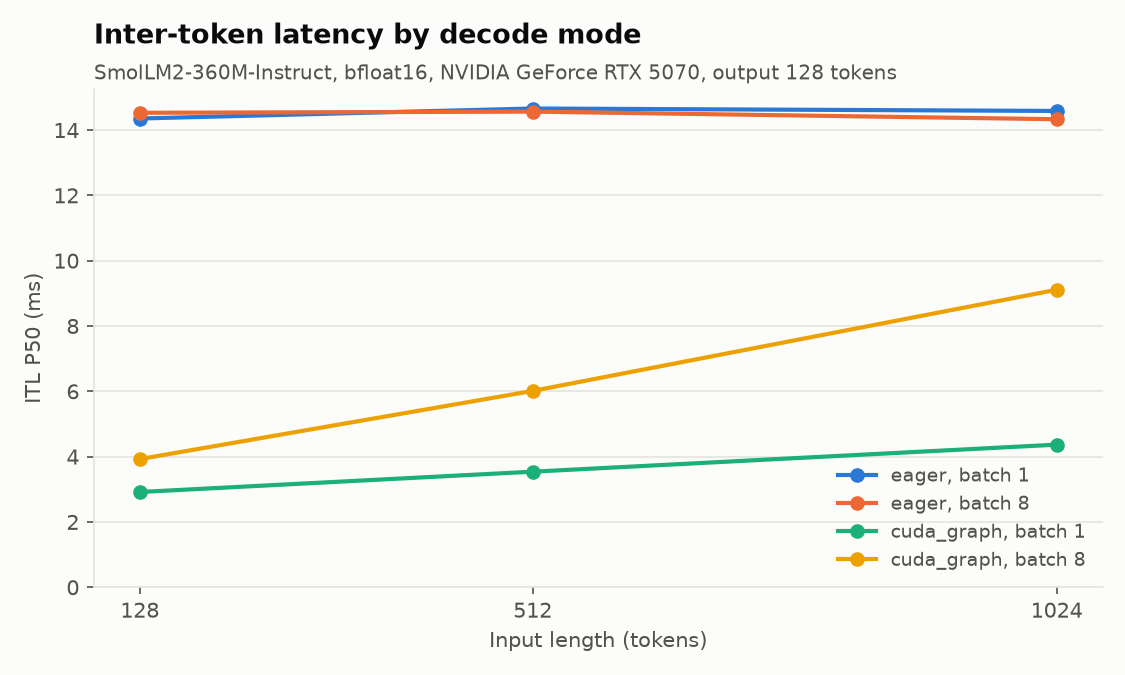
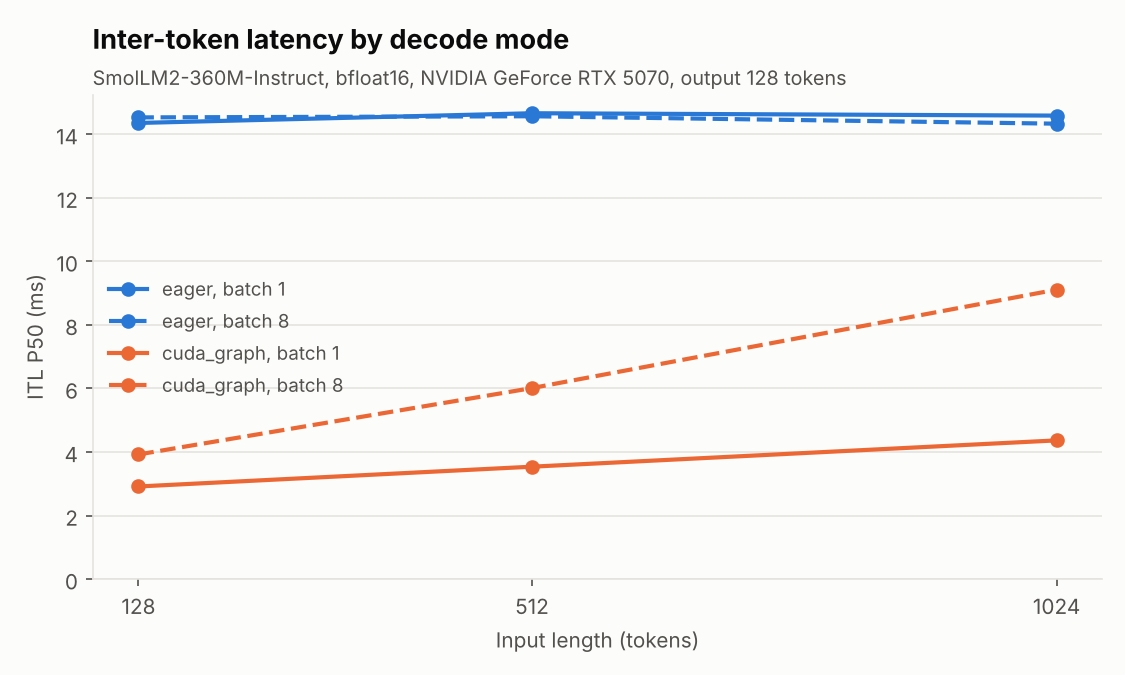
README: CUDA graph results; one color per decode mode in mode plots
Claude-Session: https://claude.ai/code/session_01GCgimVQNygShu8MfHsWbpB

diff --git a/src/miniinferbench/plots.py b/src/miniinferbench/plots.py
@@ -236,9 +236,12 @@ def plot_modes(
     model = head["config"]["model_name"].split("/")[-1]
     sub = f"{model}, {head['config']['dtype']}, {gpu}, output {output_len} tokens"
     written = []
+    # One color per mode in both figures; batch size is told apart by line style.
+    colors = dict(zip(points, SERIES, strict=False))
 
     fig, ax = plt.subplots(figsize=(7.5, 4.5))
-    for color, (label, pts) in zip(SERIES, points.items(), strict=False):
+    for label, pts in points.items():
+        color = colors[label]
         rows = sorted(
             (
                 p
@@ -265,12 +268,13 @@ def plot_modes(
         "Decode tokens/s",
         sub + f", input {input_len}",
     )
+    ax.set_ylim(bottom=0)
     ax.legend(frameon=False, labelcolor=INK_SECONDARY, fontsize=9)
     written.append(_save(fig, out_dir, "modes_throughput_vs_batch.png"))
 
     fig, ax = plt.subplots(figsize=(7.5, 4.5))
-    lines = [(label, bs) for label in points for bs in (1, 8)]
-    for color, (label, bs) in zip(SERIES, lines, strict=False):
+    styles = {1: "-", 8: "--"}
+    for label, bs in [(label, bs) for label in points for bs in styles]:
         rows = sorted(
             (
                 p
@@ -283,7 +287,8 @@ def plot_modes(
         ax.plot(
             xs,
             [p["summary"]["itl_ms_p50"] for p in rows],
-            color=color,
+            color=colors[label],
+            linestyle=styles[bs],
             linewidth=2,
             marker="o",
             markersize=6,

diff --git a/README.md b/README.md
@@ -41,8 +41,8 @@ All 36 points match `generate()` exactly; 20 are `ok`, 16 `unstable`
 - Prefill of 128 tokens at batch 1 (TTFT 14.7 ms) costs about the same as one
   decode step: both are dominated by the same per-layer launch sequence.
 
-The obvious next experiment is to cut launches with a static KV cache plus
-CUDA Graphs or `torch.compile(mode="reduce-overhead")`. It is not done yet.
+The direct test of this finding is to remove the launches; see
+[Testing the finding with CUDA Graphs](#testing-the-finding-with-cuda-graphs).
 
 ![Prefill vs one decode step](docs/figures/prefill_vs_decode.png)
 
@@ -50,6 +50,48 @@ More figures: [latency vs batch](docs/figures/latency_vs_batch.png),
 [prefill vs input length](docs/figures/prefill_vs_input.png),
 [ITL distribution](docs/figures/itl_distribution.png),
 [memory: measured vs estimated](docs/figures/memory.png).
+
+## Testing the finding with CUDA Graphs
+
+If decode is launch-bound, replaying each decode step as one CUDA graph
+instead of ~1,300 separate launches should cut ITL to roughly the GPU's busy
+time. `decode_mode: "cuda_graph"` does that: a static KV cache plus
+`torch.compile(mode="reduce-overhead")` for decode steps; prefill stays eager.
+Both modes were swept at the same commit, output 128
+([`results-published/5070-360m-modes.jsonl`](results-published/5070-360m-modes.jsonl)).
+
+| Batch | Input | ITL P50 eager | ITL P50 CUDA graph | Decode tok/s eager | Decode tok/s CUDA graph |
+| --- | --- | --- | --- | --- | --- |
+| 1 | 128 | 14.35 ms | 2.92 ms | 69.6 | 341.0 |
+| 1 | 1024 | 14.58 ms | 4.37 ms | 67.1 | 228.2 |
+| 4 | 512 | 14.73 ms | 4.66 ms | 265.2 | 854.5 |
+| 8 | 128 | 14.53 ms | 3.92 ms | 544.8 | 2028.2 |
+| 8 | 1024 | 14.33 ms | 9.11 ms | 556.7 | 874.7 |
+
+![ITL by decode mode](docs/figures/modes_itl_vs_input.png)
+
+- **The prediction held.** Decode got 1.6x to 4.9x faster, and at batch 4,
+  input 512 the traced step dropped from 1,334 kernel launches to one graph
+  launch, with the GPU busy 95% of the step instead of 19%
+  ([eager](results-published/traces/eager-bs4-in512-out128.analysis.json),
+  [CUDA graph](results-published/traces/cuda_graph-bs4-in512-out128-cuda_graph.analysis.json)).
+  The batch-1, input-128 ITL of 2.9 ms is close to the 3.6 ms of GPU busy time
+  the eager trace showed.
+- **The bottleneck moved to the GPU.** In eager mode ITL is flat at ~14.5 ms
+  whatever the batch or input length. With graphs it grows with both (batch 8:
+  3.9 ms at input 128, 9.1 ms at input 1024), because reading the KV cache now
+  shows. The largest GPU cost after the matmuls is attention: with a static
+  cache SDPA uses the memory-efficient kernel with an explicit mask over the
+  full cache length (175 ms total in the trace vs 42 ms for flash split-KV in
+  eager mode), so that is the next thing to fix.
+- **Correctness under a different kernel path.** 8 of 12 graph-mode points
+  diverged from `generate()` somewhere, always between tokens whose logits
+  were tied in bf16 or one bf16 step apart (largest gap 0.19 logits, within
+  the 0.25 tolerance); a float32 control run at batch 4 matched exactly. These
+  points are recorded as `near_tie` with every divergence kept.
+- **Costs.** Peak memory is higher (2.2 GiB vs 1.2 GiB at batch 8, input 1024:
+  the static cache and the graph memory pool), compilation adds several seconds,
+  and graph mode needs longer warmup (6 runs instead of 2).
 
 ## Case study: can the harness catch a regression?
 
@@ -175,6 +217,10 @@ ruff check . && ruff format --check . && mypy && pytest -q
   (7 runs each, not a published record) had `generate()` about 5% slower end to
   end with identical tokens, so these numbers are a little optimistic for
   users who call `generate()` directly.
+- **TTFT in CUDA graph mode has random stalls.** Prefill is eager in both
+  modes, yet graph-mode runs show occasional 20-60 ms TTFT outliers (for
+  batch 1, input 128, three of five runs). Records report the median TTFT,
+  but that point's median is still an outlier; the cause is not yet known.
 - **Synthetic prompts, equal length, no padding.** Real traffic is not like this.
 - **Correctness is checked against `generate()`**, which is itself code with
   configuration pitfalls (see above). Matching it proves agreement, not truth.
